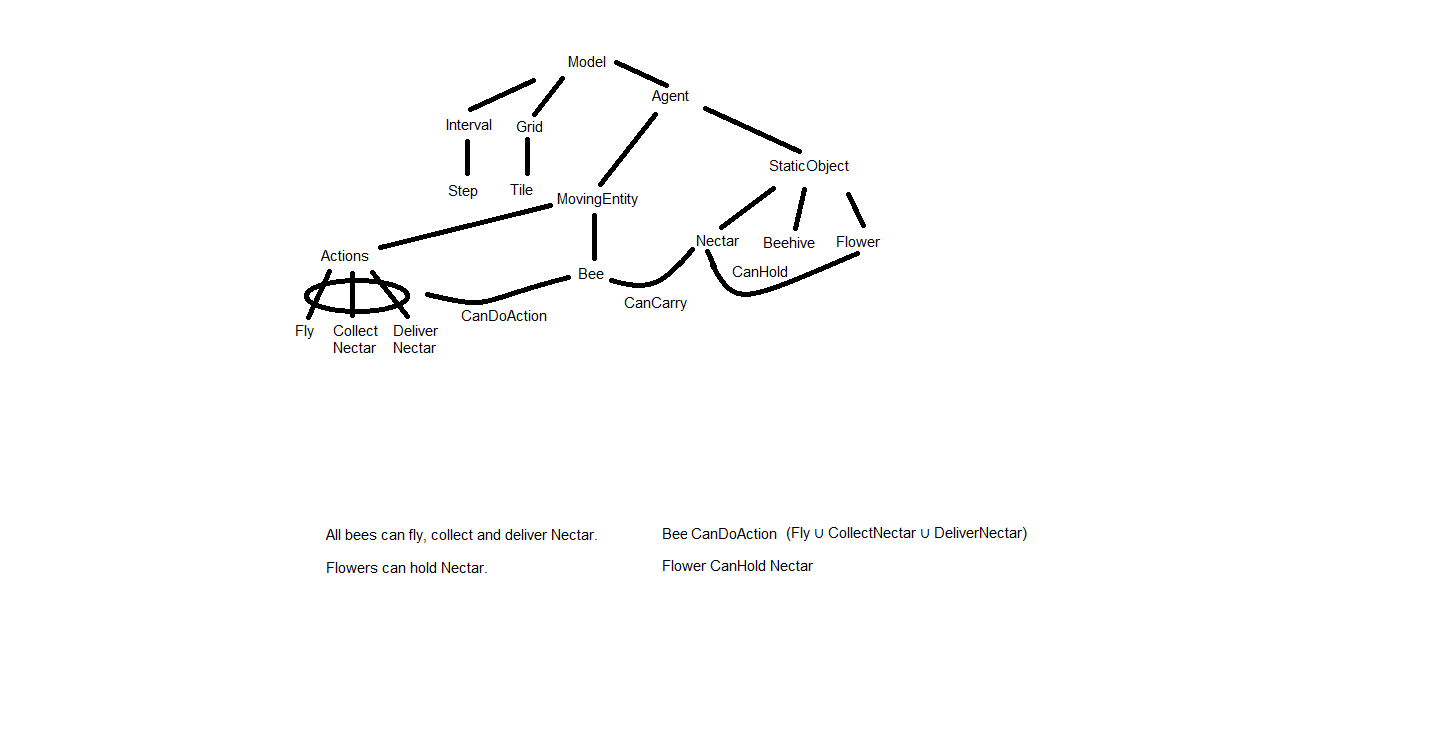
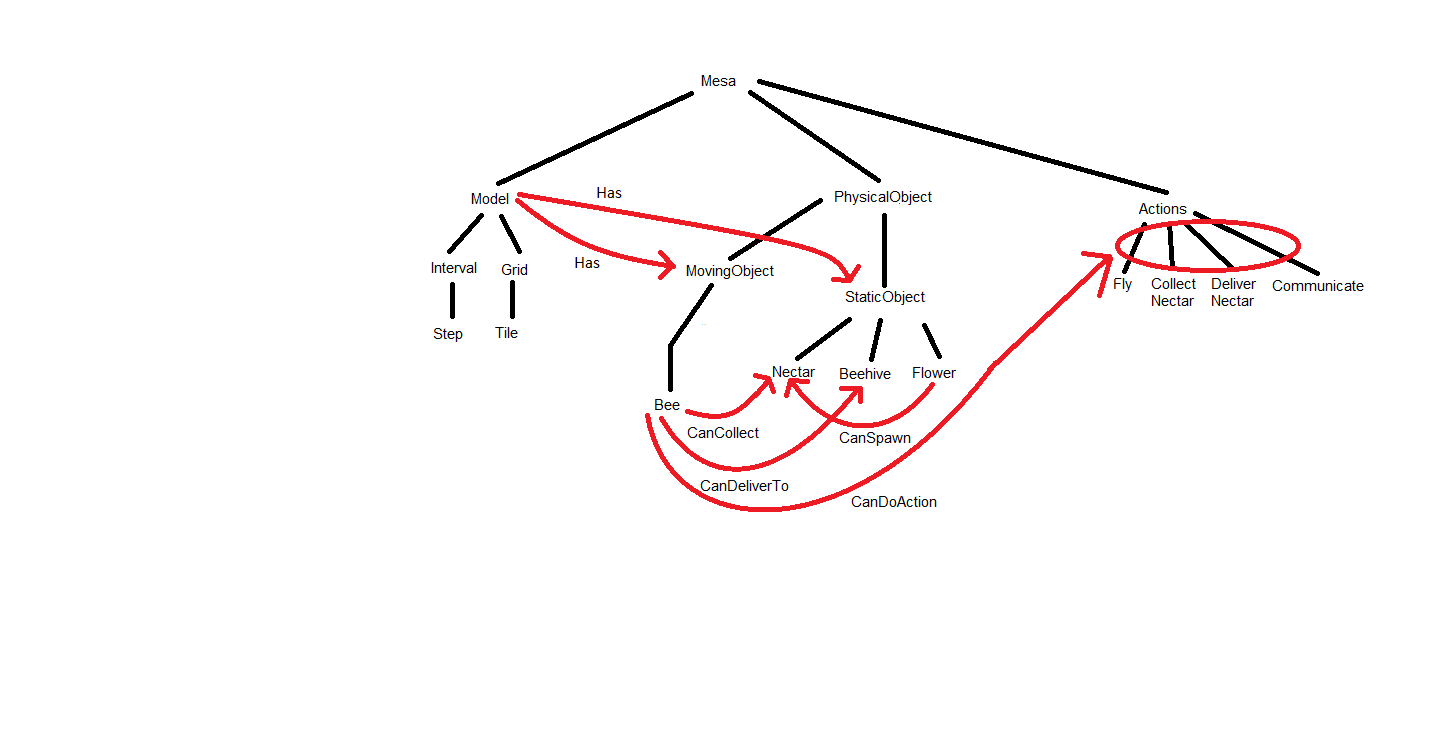
Nieuwe parameters (subject to change) toegevoegd, en ontology aangepast

diff --git a/bee_simulation/server.py b/bee_simulation/server.py
@@ -73,7 +73,21 @@ model_params = {
     ),
     "init_max_nectar_grade": UserSettableParameter(
         "slider", "Maximum Nectar Grade", 3, 1, 10, description="Maximum nectar grade"
-    )
+    ),
+    "behaviourprobability": UserSettableParameter(
+        "slider", "Bee Behaviour Probability", 50, 0, 100, description="Probability that the bee will"
+                                                                       "explore instead of going for the clue,"
+                                                                       "the inverse (1-%) for going for the clue"
+                                                                       "first."
+    ),
+    "beedanceinaccuracy": UserSettableParameter(
+        "slider", "Bee Dance Inaccuracy", 3, 0, 8, description="Radius in which a given clue can generate in from"
+                                                               "a nectar's actual position."
+    ),
+    "beepatience": UserSettableParameter(
+        "slider", "Bee Search Duration", 8, 0, 8, description="Time steps that the bee will spend searching before"
+                                                              "giving up and returning to a default explore state."
+    ),
 }
 
 # set the portrayal function and size of the canvas for visualization

diff --git a/bee_simulation/model.py b/bee_simulation/model.py
@@ -5,10 +5,10 @@ from mesa.datacollection import DataCollector
 from mesa.time import RandomActivation
 
 import numpy as np
+
 # Start of datacollector functions
 def get_nectar_collected(model):
     return model.nectar_collected
-
 
 class BeeSimulation(Model):
     # grid height
@@ -28,6 +28,9 @@ class BeeSimulation(Model):
             init_max_nectar_grade=3,
             min_nectar=1,
             max_nectar=1,
+            behaviourprobability=50,
+            beedanceinaccuracy=3,
+            beepatience=8
     ):
         if min_nectar > max_nectar:
             min_nectar = max_nectar
@@ -39,6 +42,10 @@ class BeeSimulation(Model):
         self.init_nectar = init_flowers
         self.init_nectar_grade = init_max_nectar_grade
 
+        # Agent parameters
+        self.behaviourprobability = behaviourprobability
+        self.beedanceinaccuracy = beedanceinaccuracy
+        self.beepatience = beepatience
 
         self.schedule = RandomActivation(self)
         self.grid = MultiGrid(self.width, self.height, torus=False)
